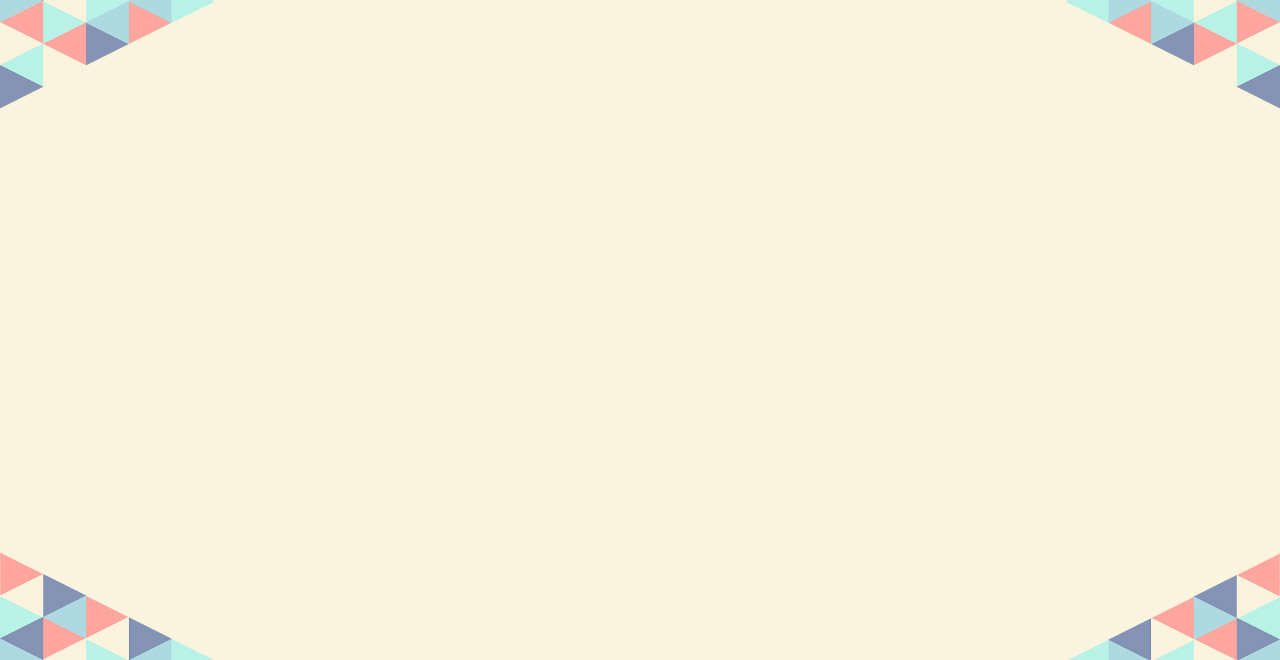
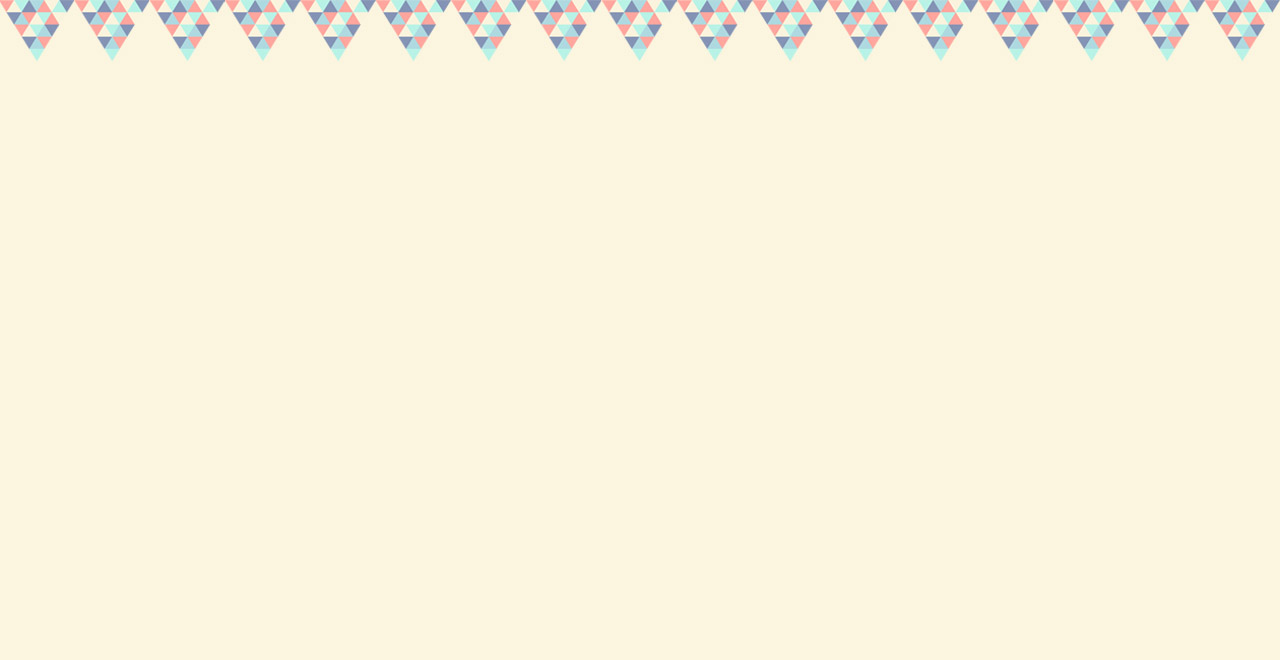
stuffs

Changed region(s): [[0.0, 0.0, 1.0, 0.1515], [0.8438, 0.8485, 1.0, 1.0], [0.0, 0.8485, 0.1562, 1.0]]

diff --git a/browser/scss/entry/main.scss b/browser/scss/entry/main.scss
@@ -1,41 +1,39 @@
 section#entry {
     h2 {
+        margin-top:75px;
         text-align: center;
         font: 34px "Dosis", sans-serif;
         color:black;
     }
-    .background {
-    	background-image: url("/images/background4.jpg");
-    }
+}
 
+.bg4{
+  background: url("/images/background4.jpg");
 }
 
 body {
     width: 100%;
-    font: 15px "Dosis", sans-serif;
     color: black;
     text-transform:none;
-    margin: 0 auto;
+    background-repeat:repeat-x;
+    background-color:#fbf5df;
+    // background-size:100% 100%;
+    background-position:0px 50px;
     a:hover {
         text-decoration:none;
-    }
-    input {
-        border-bottom: 1px solid #fff;
-        &:focus {
-            box-shadow:0 1px 0 0 #383e4d;
-        }
-    }
-    ::-webkit-input-placeholder {
-        color:#383e4d;
     }
 
     .tinymcestyle {
       background-color:white;
       color:black;
       margin: 0 auto;
-      height:500px;
+      min-height:300px;
+      height:auto;
       width:500px;
       box-shadow:3px 3px 3px grey;
+      &:focus {
+        outline:none;
+      }
       // &:focus {
       //   outline {
       //     outline-color:none;
@@ -48,19 +46,3 @@ body {
       }
     }
 }
-
-nav {
-  max-height:50px;
-  ul {
-  	a:hover{
-  		background-color:rgba(0,0,0,0);
-  	}
-  }
-  a {
-    color:white;
-  }
-  a:hover{
-    color:#b9f3e7; 
-  }
-}
-

diff --git a/browser/js/entry/entry.js b/browser/js/entry/entry.js
@@ -2,7 +2,10 @@ app.config(function($stateProvider) {
     $stateProvider.state('entry', {
         url: '/entry',
         templateUrl: 'js/entry/entry.html',
-        controller: 'TinyMceController'
+        controller: 'TinyMceController',
+        data: {
+            bodyClass: 'bg4'
+        }
     });
 });
 
@@ -20,6 +23,8 @@ app.controller('TinyMceController', function($scope) {
     $scope.tinymceOptions = {
         selector: 'div.tinymce',
         theme: 'inlite',
+        plugins: 'autoresize',
+        autoresize_max_height:500,
         selection_toolbar: 'bold italic underline strikethrough | blockquote',
         inline: true,
         paste_data_images: false

diff --git a/browser/js/common/directives/navbar/navbar.html b/browser/js/common/directives/navbar/navbar.html
@@ -1,7 +1,7 @@
 <nav class="navbar">
     <div class="nav-wrapper black">
+        <fullstack-logo class="pull-left"></fullstack-logo>
         <ul id="nav-mobile" class="right hide-on-med-and-down">
-            <fullstack-logo></fullstack-logo>
             <li><a ng-hide="isLoggedIn()" ui-sref="home">HOME</a></li>
             <li><a ng-hide="isLoggedIn()" ui-sref="about">ABOUT</a></li>
             <li><a ng-show="!user" ui-sref="login" style="float: right;">LOGIN</a></li>

diff --git a/browser/scss/signup/main.scss b/browser/scss/signup/main.scss
@@ -1,4 +1,5 @@
 section#signup {
+    max-height:100px;
     h1 {
         text-align: center;
         font: 35px "Dosis", sans-serif;
@@ -12,12 +13,15 @@ section#signup {
     }
 }
 
+.bg3 {
+    background: url("/images/background3.jpg");
+}
+
 body {
     height: 100%;
     font: 15px "Dosis", sans-serif;
     text-transform: uppercase;
     color: white;
-    background-image: url("/images/background3.jpg");
     a:hover {
         text-decoration:none;
     }

diff --git a/browser/js/app.js b/browser/js/app.js
@@ -15,6 +15,8 @@ app.config(function ($urlRouterProvider, $locationProvider) {
 // This app.run is for controlling access to specific states.
 app.run(function ($rootScope, AuthService, $state) {
 
+    $rootScope.$state = $state;
+
     // The given state requires an authenticated user.
     var destinationStateRequiresAuth = function (state) {
         return state.data && state.data.authenticate;

diff --git a/browser/scss/login/main.scss b/browser/scss/login/main.scss
@@ -12,12 +12,15 @@ section#login {
     }
 }
 
+.bg3 {
+    background: url("/images/background3.jpg");
+}
+
 body {
     height: 100%;
     font: 15px "Dosis", sans-serif;
     text-transform: uppercase;
     color: white;
-    background-image: url("/images/background3.jpg");
     a:hover {
         text-decoration:none;
     }

diff --git a/browser/js/signup/signup.js b/browser/js/signup/signup.js
@@ -2,7 +2,10 @@ app.config(function ($stateProvider) {
     $stateProvider.state('signup', {
         url: '/signup',
         templateUrl: 'js/signup/signup.html',
-        controller: 'SignupCtrl'
+        controller: 'SignupCtrl',
+        data: {
+            bodyClass: 'bg3'
+        }
     });
 });
 

diff --git a/browser/js/login/login.js b/browser/js/login/login.js
@@ -2,7 +2,10 @@ app.config(function ($stateProvider) {
     $stateProvider.state('login', {
         url: '/login',
         templateUrl: 'js/login/login.html',
-        controller: 'LoginCtrl'
+        controller: 'LoginCtrl',
+        data: {
+            bodyClass: 'bg3'
+        }
     });
 });
 

diff --git a/server/app/views/index.html b/server/app/views/index.html
@@ -34,7 +34,7 @@
     <meta name="viewport" content="width=device-width, initial-scale=1.0" />
 </head>
 
-<body ng-app="FullstackGeneratedApp">
+<body ng-app="FullstackGeneratedApp" ng-class="$state.$current.locals.globals.bodyClass">
     
     <!-- <navbar></navbar>
  -->

diff --git a/browser/js/entry/entry.html b/browser/js/entry/entry.html
@@ -5,5 +5,6 @@
         <div class="tinymce tinymcestyle" ui-tinymce="tinymceOptions" ng-model="tinymceModel">
         </div>
         <button id="post" class="btn btn-default">Post</button>
+        <br>
     </div>
 </section>

diff --git a/browser/scss/directives/navbar.scss b/browser/scss/directives/navbar.scss
@@ -16,8 +16,8 @@ navbar {
     }
     fullstack-logo {
         width: 40px;
-        margin-right: 1020px;
         margin-top: 4px;
+        margin-left: 15px;
         float: left;
     }
 }

diff --git a/browser/scss/entry/post.scss b/browser/scss/entry/post.scss
@@ -1,6 +1,8 @@
 #post{
-    margin: 0 auto; 
-    position:relative;
+	margin-top:10px;
+	right:50%;
+	left: 50%;
+	position:absolute;
     background-color:black;
     color:white;
 }
